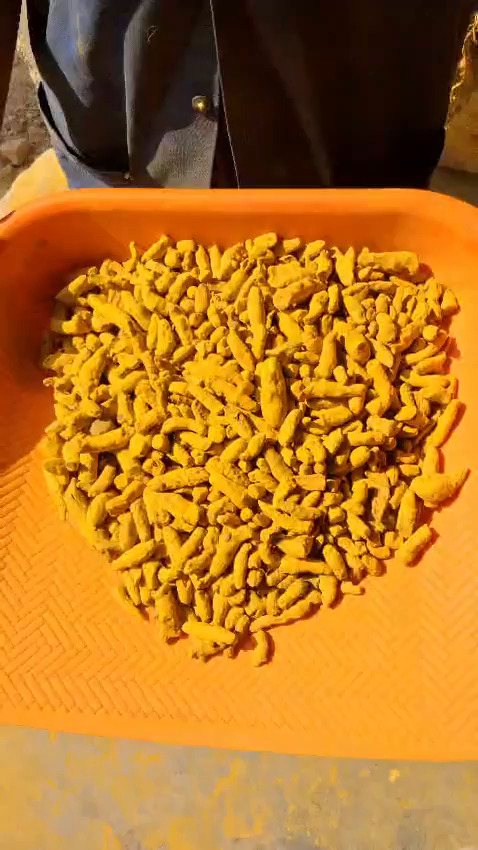
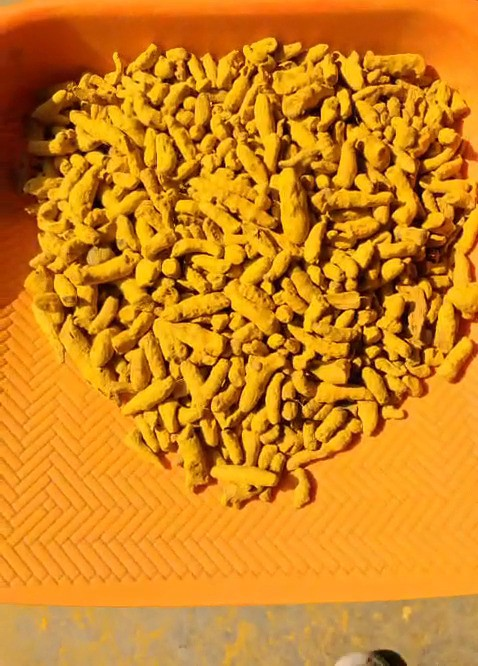
update

diff --git a/src/components/Contact/Contact.jsx b/src/components/Contact/Contact.jsx
@@ -133,9 +133,9 @@ const Contact = () => {
 
         <div className="info-box">
           <FaClock />
-          <h4>Working Hours</h4>
-          <p>Mon – Sat</p>
-          <p>9:00 AM – 7:00 PM</p>
+          <h4>Factory Address</h4>
+          <p>Plot No B-8/6/7, Miraj Industrial Area</p>
+          <p>Tal–Miraj, Dist–Sangli – 416436</p>
         </div>
 
       </div>
